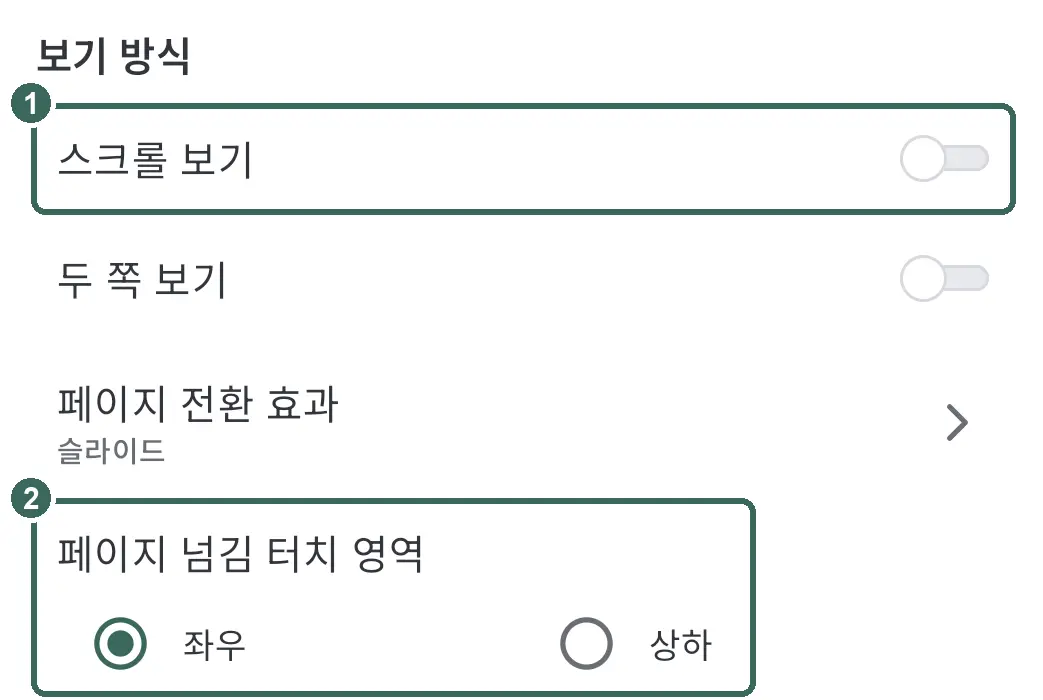
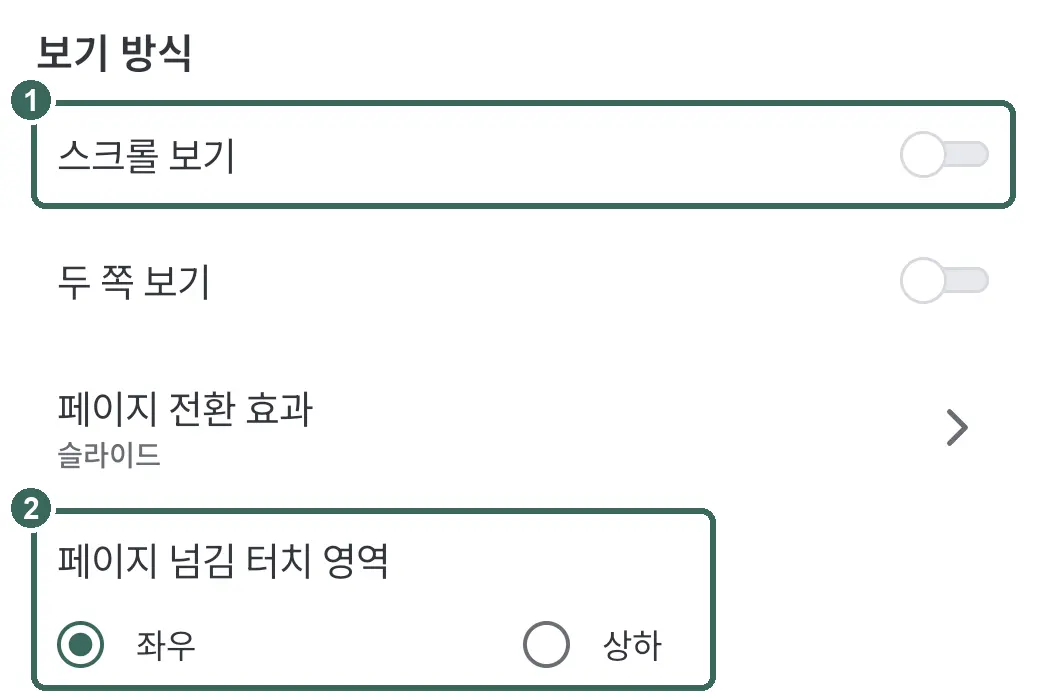
사용법에 목차 서랍과 챕터 페이지 번호를 더한다

diff --git a/index.html b/index.html
@@ -20,7 +20,7 @@ figcaption { margin-top: 6px; font-size: .875rem; color: #555; }
 <main id="top">
 <p><a href="en/" lang="en" hreflang="en">English</a></p>
 <h1>사용법</h1>
-<p class="date">최종 수정일: 2026년 10월 27일</p>
+<p class="date">최종 수정일: 2026년 11월 2일</p>
 <nav class="toc"><ol>
 <li><a href="#s1">책 넣기</a></li>
 <li><a href="#s2">읽기·보기 설정</a></li>
@@ -42,18 +42,21 @@ figcaption { margin-top: 6px; font-size: .875rem; color: #555; }
 <figure><img src="img/guide_s1_2.webp" alt="" loading="lazy" width="1000" height="612"><figcaption>1 표지(누르면 표지 바꾸기) · 2 + 파일 추가</figcaption></figure>
 <p class="top"><a href="#top">맨 위로</a></p>
 <h2 id="s2">읽기·보기 설정</h2>
-<p>책을 열고 화면 가운데를 누르면 메뉴가 열립니다. 다시 누르면 닫힙니다.</p>
+<p>책을 열고 화면 가운데를 누르면 메뉴가 열립니다. 다시 누르면 닫힙니다. ‘목차’를 누르면 왼쪽에서 목록이 열리고 목록 바깥을 누르면 닫힙니다.</p>
 <figure><img src="img/guide_s2_1.webp" alt="" loading="lazy" width="1066" height="1080"><figcaption>1 화면 가운데 · 2 뷰어 설정 · 3 보기 설정</figcaption></figure>
 <p>&#x27;뷰어 설정&#x27;의 &#x27;페이지 넘김 터치 영역&#x27;에서 방향을 고릅니다. 기본인 &#x27;좌우&#x27;는 왼쪽이 이전 쪽, 오른쪽이 다음 쪽이며 &#x27;상하&#x27;는 위가 이전 쪽, 아래가 다음 쪽입니다.</p>
 <p>EPUB·TXT는 &#x27;보기 설정&#x27;에서 글꼴·글자 크기·간격·배경을 조절합니다. 원본 PDF는 글자 크기를 바꾸지 않습니다. &#x27;보기 설정&#x27;의 &#x27;화면&#x27;에서 &#x27;전체 화면&#x27;을 활성화하면 독서 중 화면 상단의 상태 표시줄이 숨겨집니다.</p>
 <p>&#x27;스크롤 보기&#x27;에서는 화면을 밀어 읽습니다. 가장자리 터치로는 쪽을 넘기지 않습니다.</p>
 <figure><img src="img/guide_s2_2.webp" alt="" loading="lazy" width="1043" height="700"><figcaption>1 스크롤 보기 · 2 페이지 넘김 터치 영역</figcaption></figure>
+<p>‘뷰어 설정’의 ‘하단 바 구성’에서 ‘하단 좌/우 정보 표시’를 엽니다. ‘숨김’의 ‘챕터 페이지 번호’를 눌러 ‘좌측으로 이동’이나 ‘우측으로 이동’을 고르면 챕터마다 1쪽부터 표시합니다. 항목을 끌어 옮길 수도 있습니다. 스크롤 보기·세로쓰기·오른쪽부터 읽기에서는 표시하지 않습니다.</p>
+<figure><img src="img/guide_s2_3.webp" alt="" loading="lazy" width="1080" height="1010"><figcaption>1 챕터 페이지 번호 · 2 본문 하단에 보이는 모습</figcaption></figure>
+<p>앱 언어는 My의 ‘언어’에서 바꿉니다. Android 13 이상에서는 시스템의 앱별 언어 설정 화면이 열리고 Android 12 이하에서는 앱 안의 선택창이 열립니다.</p>
 <p class="top"><a href="#top">맨 위로</a></p>
 <h2 id="s3">형광펜·메모·책갈피</h2>
 <p>EPUB·TXT에서 문장을 길게 누르고 범위를 조절한 뒤 색 버튼을 누릅니다. 남긴 형광펜을 누르면 색을 바꿀 수 있습니다.</p>
 <p>문장을 고른 뒤 &#x27;메모&#x27;를 누르고 내용을 적어 &#x27;저장&#x27;합니다.</p>
 <figure><img src="img/guide_s3_1.webp" alt="" loading="lazy" width="930" height="420"><figcaption>1 색 버튼 · 2 메모</figcaption></figure>
-<p>메뉴의 책갈피 버튼을 누르면 위치가 남고, 다시 누르면 해제됩니다. 남긴 기록은 &#x27;독서노트&#x27;에서 확인합니다.</p>
+<p>메뉴의 책갈피 버튼을 누르면 위치가 남고 다시 누르면 해제됩니다. 책갈피 목록은 ‘목차’를 눌러 왼쪽에서 열고 목록 바깥을 눌러 닫습니다. 남긴 기록은 ‘독서노트’에서도 확인합니다.</p>
 <figure><img src="img/guide_s3_2.webp" alt="" loading="lazy" width="457" height="205"><figcaption>1 책갈피 버튼 · 2 리본 표시</figcaption></figure>
 <p>원본 PDF는 &#x27;EPUB으로 변환해서 읽기&#x27;로 변환한 뒤 형광펜을 남깁니다. 글자 없는 이미지 스캔본은 변환되지 않습니다.</p>
 <p class="top"><a href="#top">맨 위로</a></p>
@@ -76,7 +79,7 @@ figcaption { margin-top: 6px; font-size: .875rem; color: #555; }
 <h2 id="s6">서재 정리·책장</h2>
 <p>서재의 &#x27;책장 목록&#x27;에서 &#x27;+ 새 책장 추가&#x27;로 책장을 만듭니다. 작품을 길게 눌러 &#x27;책장에 추가&#x27;를 고릅니다.</p>
 <p>&#x27;작품 정보 변경&#x27;에서 상태를 바꾸면 책 파일이 있는 작품은 상태별 책장에 모입니다(여러 작품은 선택한 뒤 &#x27;독서 상태 변경&#x27;). &#x27;읽는 중&#x27;에는 &#x27;연재 중&#x27;·&#x27;재독&#x27;, &#x27;완독&#x27;에는 &#x27;연재 완독&#x27;도 모입니다.</p>
-<figure><img src="img/guide_s6_2.webp" alt="" loading="lazy" width="771" height="1080"><figcaption>1 책장에 추가 · 2 작품 정보 변경</figcaption></figure>
+<figure><img src="img/guide_s6_2.webp" alt="" loading="lazy" width="1080" height="1018"><figcaption>1 책장에 추가 · 2 작품 정보 변경</figcaption></figure>
 <p>처음에는 &#x27;시작 전&#x27;·&#x27;하차&#x27;·&#x27;기록만&#x27; 책장이 숨겨져 있습니다. &#x27;책장 목록&#x27;의 &#x27;편집&#x27;에서 표시할 책장을 고릅니다.</p>
 <figure><img src="img/guide_s6_1.webp" alt="" loading="lazy" width="718" height="1080"><figcaption>1 + 새 책장 추가 · 2 편집(숨긴 책장 표시)</figcaption></figure>
 <p>&#x27;기록만&#x27;에는 책 파일 없는 작품이 모입니다. &#x27;책장에서 빼기&#x27;를 해도 작품과 기록은 남습니다.</p>
@@ -90,7 +93,7 @@ figcaption { margin-top: 6px; font-size: .875rem; color: #555; }
 <p class="top"><a href="#top">맨 위로</a></p>
 <h2 id="s8">백업</h2>
 <p>My의 &#x27;백업&#x27;에서 &#x27;백업 파일 만들기&#x27;로 기록과 설정을 저장합니다. 암호는 8자 이상으로 정하며, 잊으면 백업을 복구하지 못합니다.</p>
-<p>&#x27;책 원본 파일 포함&#x27;은 처음에 켜져 있습니다. 끄면 복원한 뒤 책 파일을 다시 등록해야 합니다.</p>
+<p>‘책 원본 파일 포함’을 끄고 백업하면 파일 크기가 줄지만, 복원할 때 기기에 없는 책은 파일을 다시 등록하거나 드롭박스에서 받아야 합니다.</p>
 <figure><img src="img/guide_s8_1.webp" alt="" loading="lazy" width="1050" height="520"><figcaption>1 책 원본 파일 포함 · 2 백업 파일 만들기</figcaption></figure>
 <p>&#x27;백업 불러오기&#x27;에서 파일을 확인하고 &#x27;이 백업으로 복원&#x27;을 누릅니다. 현재 기록과 설정이 백업 내용으로 바뀝니다.</p>
 <figure><img src="img/guide_s8_2.webp" alt="" loading="lazy" width="1050" height="980"><figcaption>1 이 백업으로 복원</figcaption></figure>
@@ -103,7 +106,7 @@ figcaption { margin-top: 6px; font-size: .875rem; color: #555; }
 <figure><img src="img/guide_s9_1.webp" alt="" loading="lazy" width="1043" height="393"><figcaption>1 이잉크 모드 · 2 주기적 전체 새로 고침 · 3 전체 새로 고침 주기</figcaption></figure>
 <p class="top"><a href="#top">맨 위로</a></p>
 <h2 id="s10">드롭박스</h2>
-<p>My의 ‘드롭박스 동기화’에서 ‘드롭박스 연결’을 누릅니다. 각 기기에 같은 책 파일이 있으면 읽던 위치·책갈피·형광펜과 메모를 자동으로 동기화합니다.</p>
+<p>My의 ‘드롭박스 동기화’에서 ‘드롭박스 연결’을 누릅니다. 각 기기에 같은 책 파일이 있으면 읽던 위치·책갈피·형광펜과 메모를 자동으로 동기화합니다. 다만 TXT 책에 ‘다른 기기 앱 업데이트 대기 중’이 표시되면 다른 기기의 앱도 업데이트한 뒤 ‘동기화 시작’을 누릅니다.</p>
 <figure><img src="img/guide_s10_1.webp" alt="" loading="lazy" width="1080" height="800"><figcaption>1 연결하기 전에 · 2 드롭박스 연결</figcaption></figure>
 <p>서재 화면 위 ‘드롭박스’ 탭을 누릅니다. ☰로 폴더 목록을 열고 책이 있는 폴더를 고릅니다.</p>
 <p>책을 누르면 파일을 받아 서재에 추가하고 엽니다.</p>

diff --git a/en/index.html b/en/index.html
@@ -20,7 +20,7 @@ figcaption { margin-top: 6px; font-size: .875rem; color: #555; }
 <main id="top">
 <p><a href="../" lang="ko" hreflang="ko">한국어</a></p>
 <h1>User guide</h1>
-<p class="date">Last updated: October 27, 2026</p>
+<p class="date">Last updated: November 2, 2026</p>
 <nav class="toc"><ol>
 <li><a href="#s1">Add books</a></li>
 <li><a href="#s2">Reading and appearance</a></li>
@@ -42,18 +42,21 @@ figcaption { margin-top: 6px; font-size: .875rem; color: #555; }
 <figure><img src="../img/guide_s1_2.webp" alt="" loading="lazy" width="1000" height="612"><figcaption>1 Cover (tap to change) · 2 + Add file</figcaption></figure>
 <p class="top"><a href="#top">Scroll to top</a></p>
 <h2 id="s2">Reading and appearance</h2>
-<p>Open a book and tap the center to open the menu. Tap again to close it.</p>
+<p>Open a book and tap the center to open the menu. Tap again to close it. Tap ‘Contents’ to open the list on the left. Tap outside the list to close it.</p>
 <figure><img src="../img/en/guide_s2_1.webp" alt="" loading="lazy" width="1066" height="1080"><figcaption>1 Screen center · 2 Viewer settings · 3 Appearance</figcaption></figure>
 <p>Choose &#x27;Page-turn tap zones&#x27; in &#x27;Viewer settings&#x27;. The default, &#x27;Left and right&#x27;, uses left for the previous page and right for the next; &#x27;Top and bottom&#x27; uses top for previous and bottom for next.</p>
 <p>For EPUB and TXT, adjust the font, text size, spacing, and background in &#x27;Appearance&#x27;. Text size stays fixed in original PDFs. Turn on &#x27;Full screen&#x27; in &#x27;Appearance&#x27; → &#x27;Screen&#x27; to hide the status bar while reading.</p>
 <p>With &#x27;Scroll view&#x27;, swipe to read. Tapping the edges does not turn pages.</p>
 <figure><img src="../img/guide_s2_2.webp" alt="" loading="lazy" width="1043" height="700"><figcaption>1 Scroll view · 2 Tap zones</figcaption></figure>
+<p>In ‘Viewer settings’, open ‘Left and right footer info’ under ‘Configure bottom bar’. Tap ‘Chapter page number’ under ‘Hidden’ and choose ‘Move left’ or ‘Move right’ to show page numbers starting at 1 in each chapter. You can also drag the item into place. Chapter page numbers are not shown in scroll view, vertical text, or right-to-left reading.</p>
+<figure><img src="../img/guide_s2_3.webp" alt="" loading="lazy" width="1080" height="1010"><figcaption>1 Chapter page number · 2 How it appears at the bottom of the page</figcaption></figure>
+<p>Change the app language in My → ‘Language’. On Android 13 and later, this opens the system’s app language settings. On Android 12 and earlier, a selection dialog opens within the app.</p>
 <p class="top"><a href="#top">Scroll to top</a></p>
 <h2 id="s3">Highlights, memos, and bookmarks</h2>
 <p>In EPUB and TXT, hold a sentence, adjust the selection, and tap a color button. Tap a saved highlight to change its color.</p>
 <p>Select a passage, tap &#x27;Memo&#x27;, write your note, and tap &#x27;Save&#x27;.</p>
 <figure><img src="../img/en/guide_s3_1.webp" alt="" loading="lazy" width="850" height="400"><figcaption>1 Color buttons · 2 Memo</figcaption></figure>
-<p>Tap the bookmark button in the menu to save your position or remove it. Review saved records in &#x27;Reading notes&#x27;.</p>
+<p>Tap the bookmark button in the menu to save your position or remove it. Open ‘Contents’ to view bookmarks in the list on the left, and tap outside to close it. You can also review saved records in ‘Reading notes’.</p>
 <figure><img src="../img/guide_s3_2.webp" alt="" loading="lazy" width="457" height="205"><figcaption>1 Bookmark button · 2 Ribbon indicator</figcaption></figure>
 <p>Use &#x27;Convert to EPUB&#x27; before highlighting an original PDF. Image scans without text cannot be converted.</p>
 <p class="top"><a href="#top">Scroll to top</a></p>
@@ -76,7 +79,7 @@ figcaption { margin-top: 6px; font-size: .875rem; color: #555; }
 <h2 id="s6">Organize your library and shelves</h2>
 <p>In Library, open &#x27;Shelf list&#x27; and tap &#x27;+ Add new shelf&#x27;. Hold a work and choose &#x27;Add to shelf&#x27;.</p>
 <p>Change the status in &#x27;Edit book info&#x27; and works with book files are sorted into status shelves (for several works, select them and use &#x27;Change reading status&#x27;). &#x27;Reading&#x27; includes serializing works and rereads; &#x27;Completed&#x27; includes completed serials.</p>
-<figure><img src="../img/guide_s6_2.webp" alt="" loading="lazy" width="771" height="1080"><figcaption>1 Add to shelf · 2 Edit book info</figcaption></figure>
+<figure><img src="../img/guide_s6_2.webp" alt="" loading="lazy" width="1080" height="1018"><figcaption>1 Add to shelf · 2 Edit book info</figcaption></figure>
 <p>&#x27;Not started&#x27;, &#x27;Dropped&#x27;, and &#x27;Records only&#x27; are hidden at first. Choose which shelves to show with &#x27;Edit&#x27; in &#x27;Shelf list&#x27;.</p>
 <figure><img src="../img/guide_s6_1.webp" alt="" loading="lazy" width="718" height="1080"><figcaption>1 + Add new shelf · 2 Edit (show hidden shelves)</figcaption></figure>
 <p>&#x27;Records only&#x27; holds works without book files. &#x27;Remove from shelf&#x27; keeps the work and its records.</p>
@@ -90,7 +93,7 @@ figcaption { margin-top: 6px; font-size: .875rem; color: #555; }
 <p class="top"><a href="#top">Scroll to top</a></p>
 <h2 id="s8">Backup</h2>
 <p>In My, open &#x27;Backup&#x27; and use &#x27;Create backup file&#x27; to save records and settings. Backups use a password of at least eight characters by default; if forgotten, the backup cannot be recovered.</p>
-<p>&#x27;Include original book files&#x27; is on at first. Turn it off and you will need to add the book files again after restoring.</p>
+<p>Turning off ‘Include original book files’ makes the backup smaller, but when you restore it, books not on the device must be added again or downloaded from Dropbox.</p>
 <figure><img src="../img/en/guide_s8_1.webp" alt="" loading="lazy" width="1050" height="520"><figcaption>1 Include original book files · 2 Create backup file</figcaption></figure>
 <p>Choose and review a file with &#x27;Open backup file&#x27;, then tap &#x27;Restore this backup&#x27;. The backup replaces your current records and settings.</p>
 <figure><img src="../img/guide_s8_2.webp" alt="" loading="lazy" width="1050" height="980"><figcaption>1 Restore this backup</figcaption></figure>
@@ -103,7 +106,7 @@ figcaption { margin-top: 6px; font-size: .875rem; color: #555; }
 <figure><img src="../img/guide_s9_1.webp" alt="" loading="lazy" width="1043" height="393"><figcaption>1 E Ink mode · 2 Periodic full refresh · 3 Full refresh interval</figcaption></figure>
 <p class="top"><a href="#top">Scroll to top</a></p>
 <h2 id="s10">Dropbox</h2>
-<p>In My, open ‘Dropbox sync’ and tap ‘Connect Dropbox’. Reading position, bookmarks, and highlights with notes sync automatically when each device has the same book file.</p>
+<p>In My, open ‘Dropbox sync’ and tap ‘Connect Dropbox’. Reading position, bookmarks, and highlights with notes sync automatically when each device has the same book file. If a TXT book shows ‘Waiting for app updates on other devices’, update the app on your other devices, then tap ‘Start syncing’.</p>
 <figure><img src="../img/guide_s10_1.webp" alt="" loading="lazy" width="1080" height="800"><figcaption>1 Before you connect · 2 Connect Dropbox</figcaption></figure>
 <p>Tap the ‘Dropbox’ tab at the top of Library. Tap ☰ to open the folder list and choose the folder containing your books.</p>
 <p>Tap a book to download it, add it to your library, and open it.</p>
